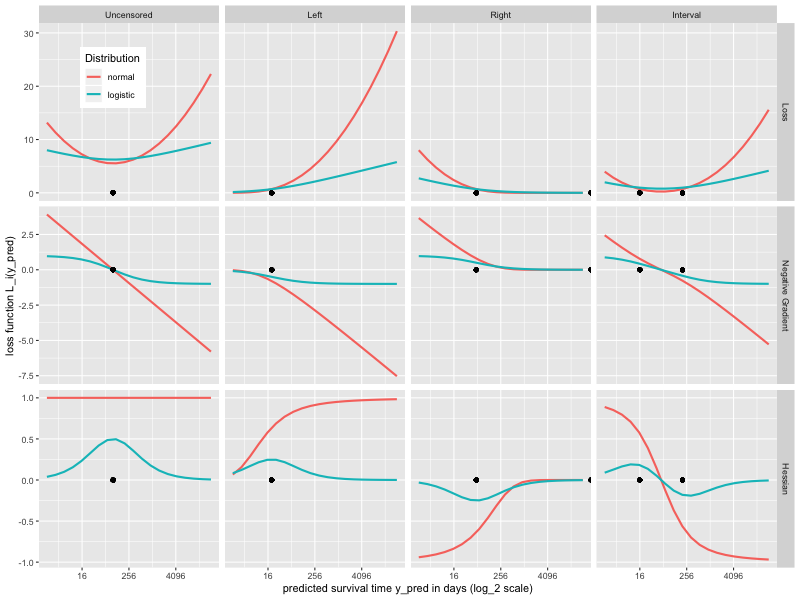
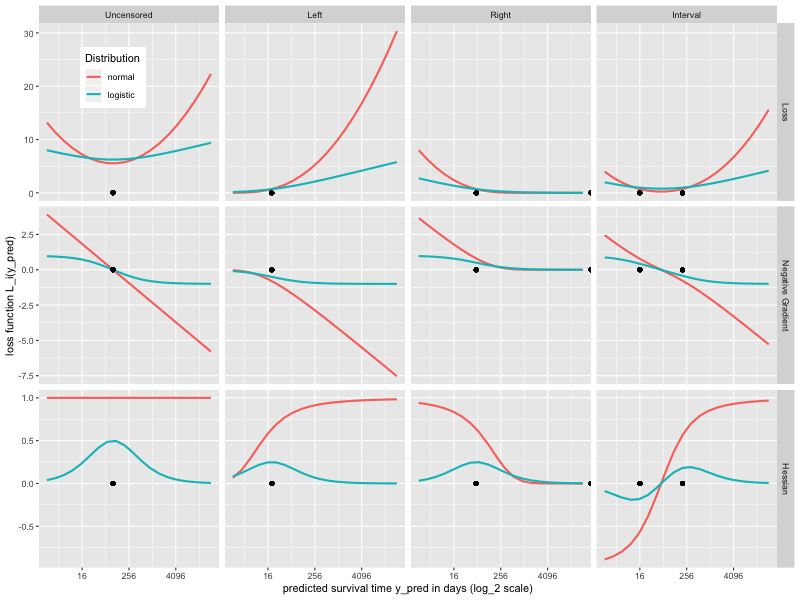
2JUL2019

diff --git a/AFT/py/.ipynb_checkpoints/_aft_loss-checkpoint.py b/AFT/py/.ipynb_checkpoints/_aft_loss-checkpoint.py
@@ -158,7 +158,7 @@ def _hessian(y_lower, y_higher, y_pred, sigma, event = 'left', dist = 'normal'):
         f_z      = _f_z(z,dist)
         F_z      = _F_z(z,dist)
         grad_f_z = _grad_f_z(z,dist)
-        hess     = -((1-F_z)*grad_f_z+f_z**2)/(sigma**2*max(0.0005,1-F_z)**2)
+        hess     = ((1-F_z)*grad_f_z+f_z**2)/(sigma**2*(1-F_z)**2)
         return hess
     
     if event=='interval':
@@ -170,7 +170,7 @@ def _hessian(y_lower, y_higher, y_pred, sigma, event = 'left', dist = 'normal'):
         F_z_l      = _F_z(z_l,dist)
         grad_f_z_u = _grad_f_z(z_u,dist)
         grad_f_z_l = _grad_f_z(z_l,dist) 
-        hess       = ((F_z_u-F_z_l)*(grad_f_z_u+grad_f_z_l)-(f_z_u**2-f_z_l**2))/(sigma**2*(F_z_u-F_z_l)**2)
+        hess       = (-(F_z_u-F_z_l)*(grad_f_z_u-grad_f_z_l)+(f_z_u-f_z_l)**2)/(sigma**2*(F_z_u-F_z_l)**2)
         return hess
     
 
